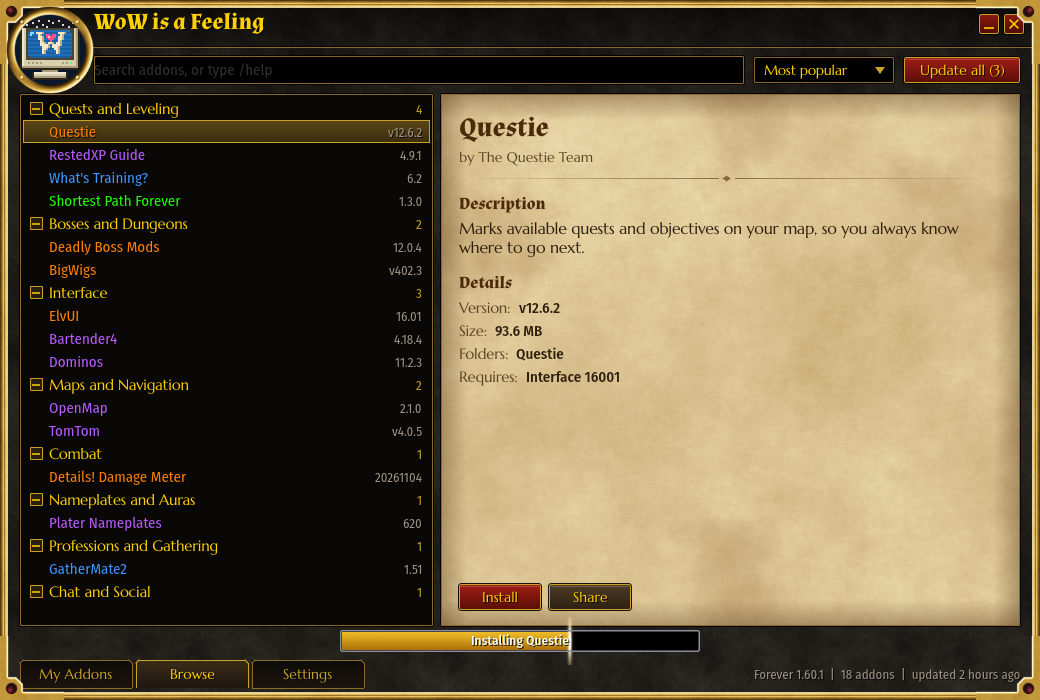
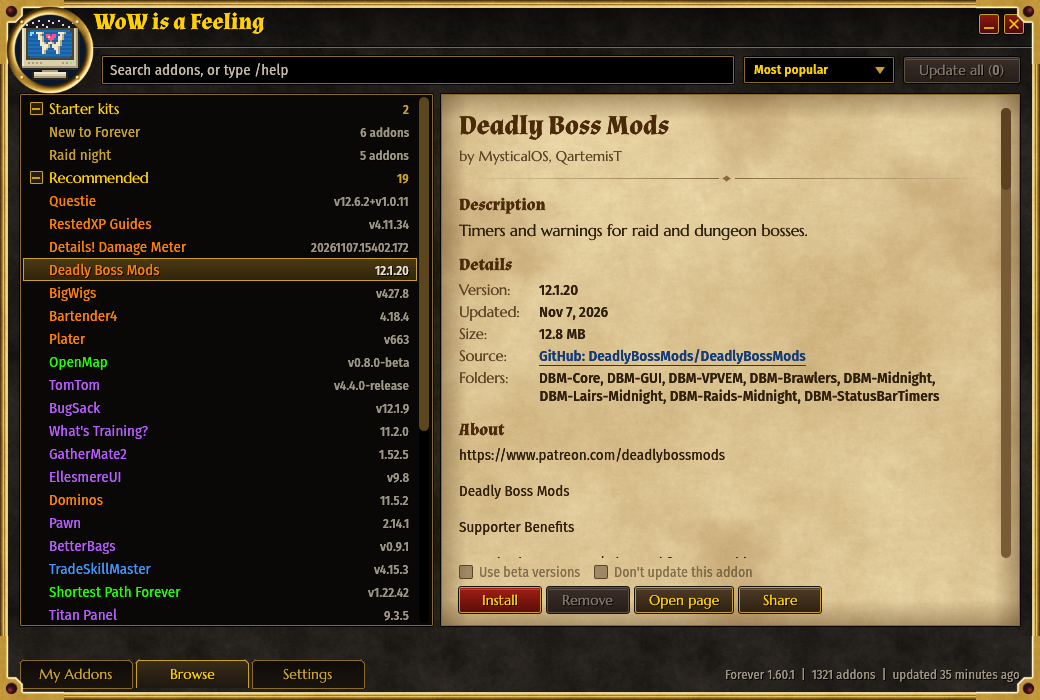
Write the README with measured numbers, refresh the screenshots, and let a test rig accept an app update

diff --git a/crates/app/src/script.rs b/crates/app/src/script.rs
@@ -110,6 +110,17 @@ impl Script {
             "adopt" => app.actions.push(Action::Adopt(rest.to_owned())),
             "zip" => app.actions.push(Action::ZipDropped(PathBuf::from(rest))),
             "updateall" => app.actions.push(Action::UpdateAll),
+            "checkapp" => app.actions.push(Action::CheckUpdateNow),
+            // What the update prompt's main button does, for a rig testing a real update.
+            "updateapp" => match app.popup.take() {
+                Some(crate::dialogs::Popup::AppUpdate(info)) => {
+                    app.actions.push(Action::UpdateNow(info));
+                }
+                other => {
+                    app.popup = other;
+                    self.log("no update is being offered");
+                }
+            },
             "select" => app
                 .actions
                 .push(Action::Select(Selection::Addon(rest.to_owned()))),

diff --git a/README.md b/README.md
@@ -2,22 +2,111 @@
 
 <h1 align="center">WoW is a Feeling</h1>
 
-<p align="center">A lightweight, free WoW Forever addon manager with a vanilla feel, for Windows, macOS and Linux.</p>
+<p align="center"><b>A free, lightweight addon manager for World of Warcraft: Forever.</b><br>Browse, install and update addons without opening a website. Windows, macOS and Linux.</p>
 
-> **Under construction.** The app isn't ready to download yet. Follow along, or read [the design](docs/DESIGN.md).
+<p align="center">
+  <a href="https://github.com/robbiemueller/wow-is-a-feeling/releases/latest/download/wow-is-a-feeling-windows-x64.exe"><b>Download for Windows</b></a>
+  &nbsp;|&nbsp;
+  <a href="https://github.com/robbiemueller/wow-is-a-feeling/releases/latest/download/wow-is-a-feeling-macos-universal.dmg"><b>macOS</b></a>
+  &nbsp;|&nbsp;
+  <a href="https://github.com/robbiemueller/wow-is-a-feeling/releases/latest/download/wow-is-a-feeling-linux-x64.AppImage"><b>Linux</b></a>
+</p>
 
-## What it will be
+<p align="center"><img src="site/assets/screenshot.png" width="780" alt="The app's main window: a list of addons grouped by category on the left, and a parchment page with details and an Install button on the right."></p>
 
-- Browse, install, update and remove WoW Forever addons without ever opening a website.
-- Tiny and fast: a single small program, with nothing running when you close it.
-- No ads, no accounts, no telemetry, no Overwolf.
-- A 2004 quest log look, with original art.
-- It asks before updating itself, so you never have to come back to GitHub.
+It's one small program. There are no ads, no account and no Overwolf, and when you close it, nothing is left running. It looks like the quest log you remember.
 
-## License and credits
+## What it does
 
-GPL-3.0-or-later. See [LICENSE](LICENSE).
+- **Browse without a browser.** Over 1,300 Forever addons, with their readmes, screenshots and changelogs, right in the app.
+- **One click** to install, update, roll back or remove. Addons an addon needs come along with it.
+- **Adopts what you have.** Addons you installed with another tool get picked up and kept updated.
+- **Takes zips.** Drop a downloaded zip on the window and it installs the same safe way.
+- **Looks after your settings.** It backs up your WTF folder before updating, and can restore it.
+- **Updates itself, after asking.** You never have to come back here for a new version, and every update is signed.
 
-Named after "WoW is a feeling" from [*Pure Pwnage*](https://www.youtube.com/watch?v=SpC3lZdk2HM). All art and text in this project are original.
+## How small it is
+
+| | |
+|---|---|
+| Download | 10 MB, one file, nothing to install (5 MB zipped) |
+| Memory once idle | About 35 MB |
+| Memory while starting up | About 100 MB at most |
+| CPU while idle | Next to none. It draws nothing until something changes. |
+| Window opens in | About 0.2 seconds |
+| Searching 8,000 addons | Under 1 millisecond |
+| Running after you close it | Nothing |
+
+Measured on Windows 11 with the release build: memory with the real addon list, search with a made-up list of 8,000. For comparison, a popular Electron-based addon manager takes 289 MB on disk on the same machine.
+
+## The first time you open it
+
+This app is free and isn't paying for code signing yet, so your system will warn you once.
+
+- **Windows:** if SmartScreen appears, choose **More info**, then **Run anyway**.
+- **macOS:** open it once, then go to **System Settings**, **Privacy & Security**, and choose **Open Anyway**.
+- **Linux:** make the AppImage executable, then run it. It finds installs under Wine, Lutris, Bottles, Proton and Faugus.
+
+Each release publishes its checksums and build attestations, and you can read every line of the source here.
+
+## What it connects to
+
+| Site | Why |
+|---|---|
+| GitHub | The addon list, app updates and most addon downloads |
+| WoWInterface | Addons published there, and their screenshots |
+| foreverdb.net | Only if you install ForeverDB, which is published there |
+| Imgur and Postimages | Screenshots addon authors keep there |
+
+Nothing else, and it sends no telemetry. A link on an addon's page can't make the app contact any other site, so it can't carry a tracking pixel either.
+
+## Why some addons are missing
+
+Addons published only on CurseForge, Wago or Tukui can't be listed, because those sites don't allow it without approval. That includes Leatrix Plus, Bagnon, Auctionator, AtlasLoot and ElvUI. When you search for one, the app says so and suggests alternatives, and you can still drop a downloaded zip on the window.
+
+Know of an addon that should be here? [Tell us](https://github.com/robbiemueller/wow-is-a-feeling/issues/new?template=add_addon.yml).
+
+## How it keeps you safe
+
+Addons are written by strangers, so the app treats them that way.
+
+- Nothing it downloads is ever run. Addon code only runs inside the game, and programs and scripts found in a zip are left out.
+- Zips are checked before anything is written: no paths outside the folder, no links, no zip bombs.
+- An install either finishes or leaves your addons exactly as they were, even if your computer crashes halfway.
+- App updates are checked against a signature built into the app before they're used.
+
+## Platforms
+
+| | Status |
+|---|---|
+| Windows 10 and 11 | Tested against a real WoW Forever install |
+| Linux (Wine, Lutris, Bottles, Proton, Faugus) | Runs and passes all tests on Ubuntu. Finding a real install under Wine hasn't been tried yet. |
+| macOS 12 or later | Runs and passes all tests in CI, but hasn't been tried on a real Mac with the game yet. |
+
+If you try it on a Mac or under Wine, [let us know how it went](https://github.com/robbiemueller/wow-is-a-feeling/issues/new?template=bug_report.yml).
+
+## Building it yourself
+
+You need [Rust](https://rustup.rs). On Linux, also `libxkbcommon-dev`, `libgl1-mesa-dev` and `libwayland-dev`.
+
+```bash
+cargo build --release -p wow-is-a-feeling
+```
+
+| Folder | What's in it |
+|---|---|
+| `crates/app` | The interface |
+| `crates/core` | Finding the game, installing, updating, and everything else that isn't the interface |
+| `crates/catalog-builder` | Builds the addon list every 3 hours, in CI |
+| `crates/xtask` | Release chores |
+| `docs` | [How it's designed](docs/DESIGN.md) and [how it behaves](docs/UI-SPEC.md) |
+
+## Credits
+
+Named after the song "World of Warcraft is a Feeling" from [*Pure Pwnage*](https://www.youtube.com/watch?v=SpC3lZdk2HM). If you've seen it, you might go looking for a few things in here. Try `/help` in the search box.
+
+All art is original. The fonts are Almendra, Marcellus and Fira Sans Condensed, under the SIL Open Font License.
 
 World of Warcraft is a trademark of Blizzard Entertainment, Inc. This project is not affiliated with or endorsed by Blizzard Entertainment.
+
+Free software under the [GPL-3.0](LICENSE).
